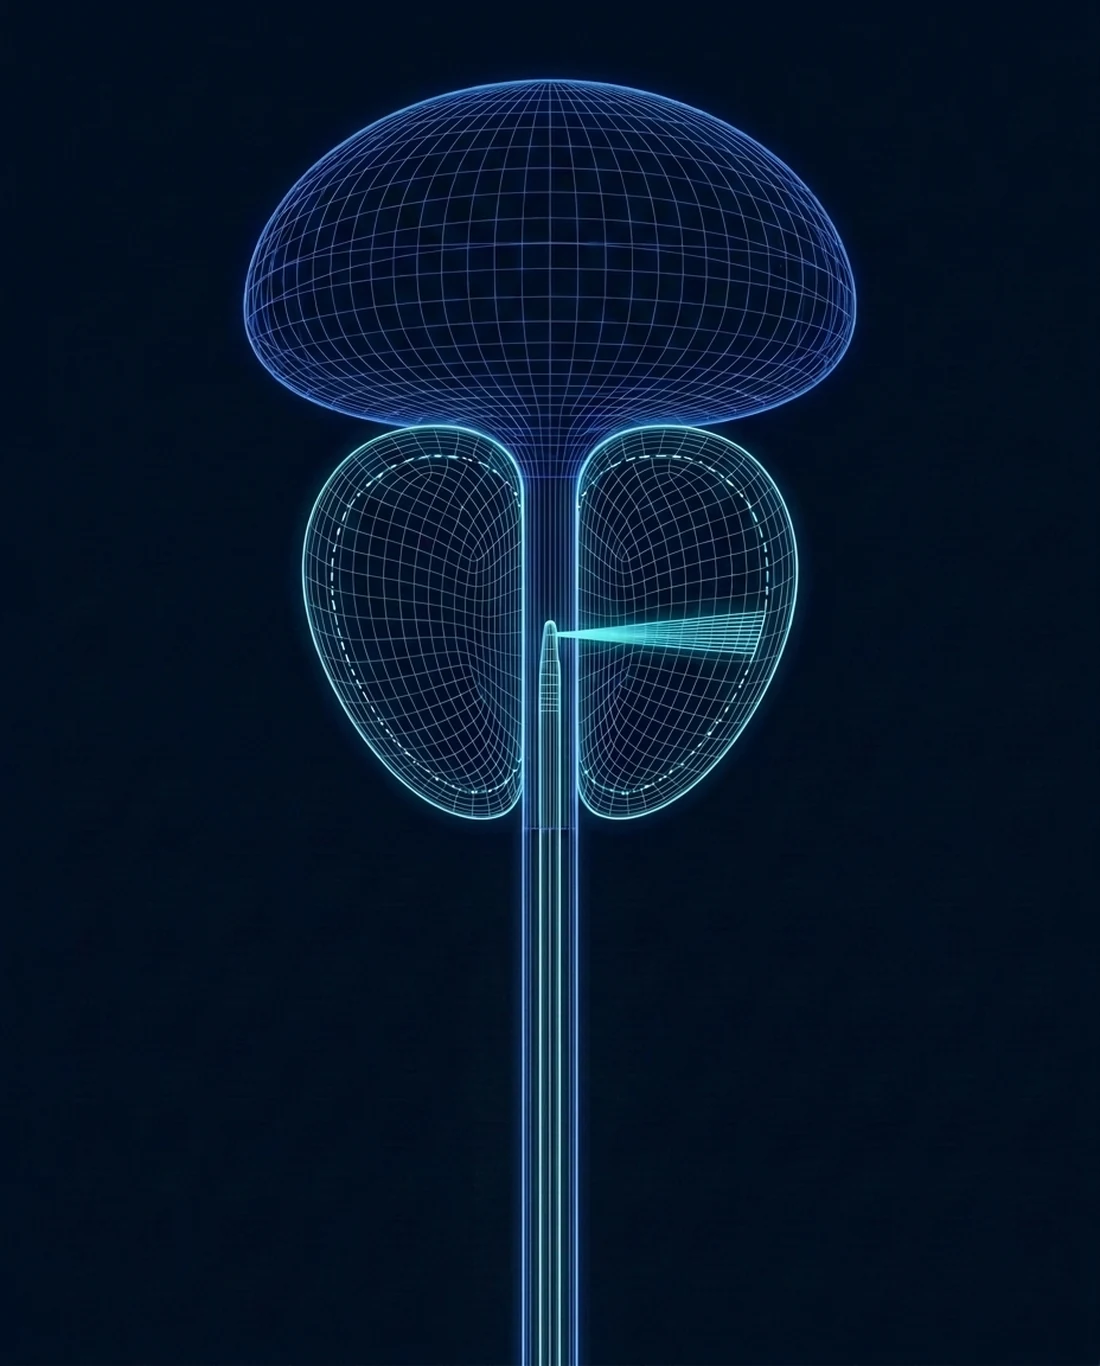
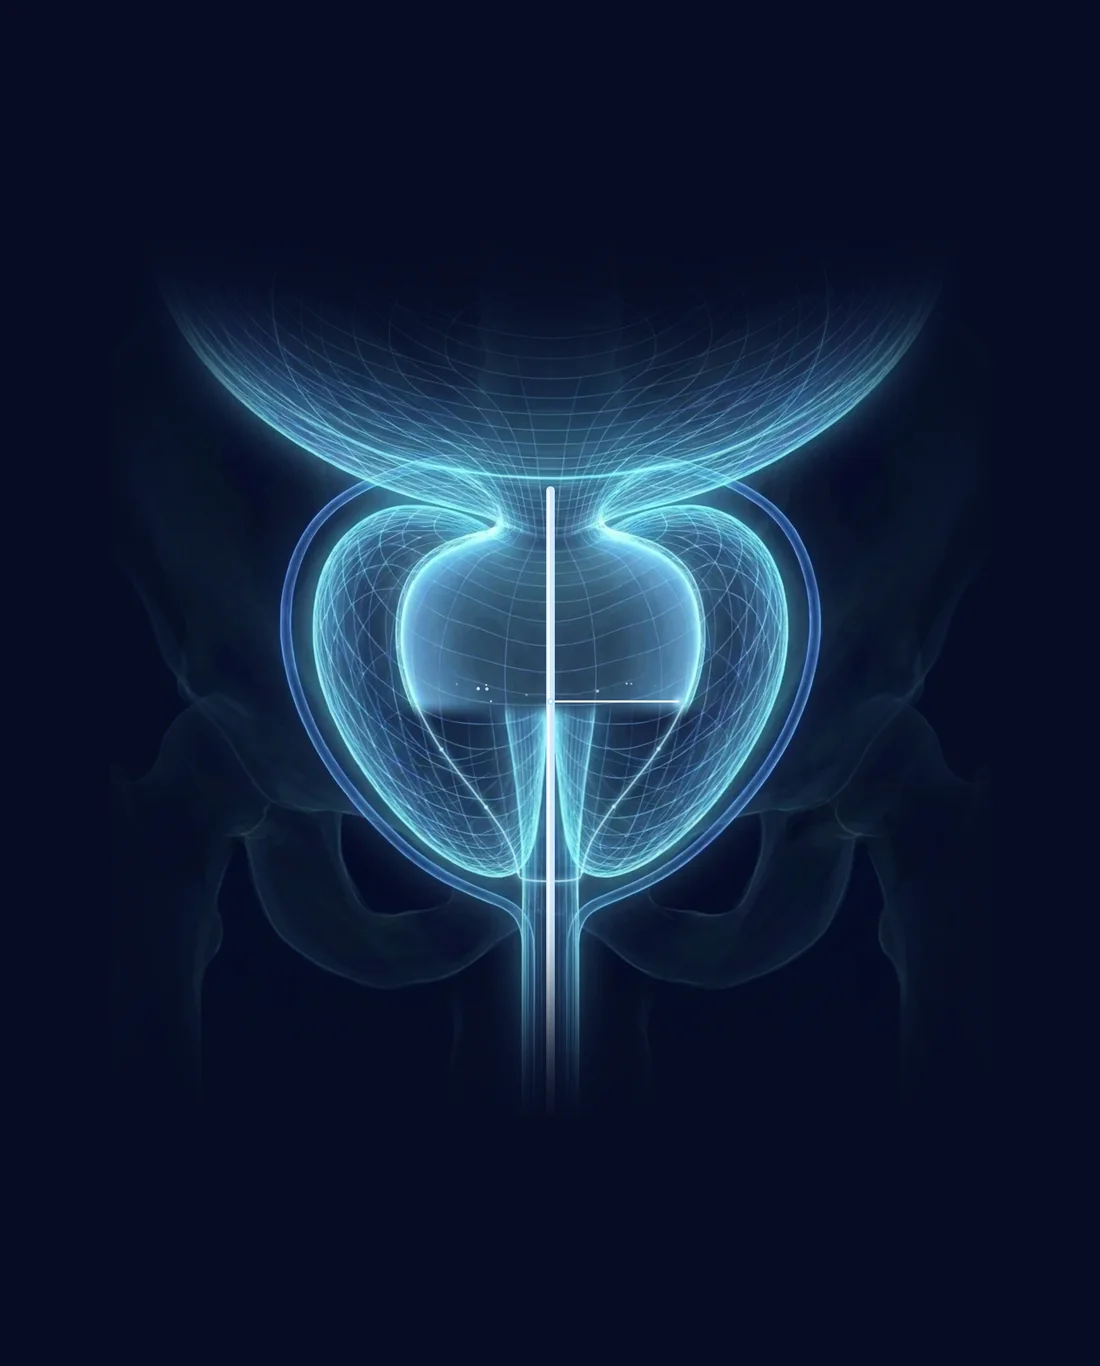
Aquablation, UroLift and Rezum: hero art from the front-view explainer renders

diff --git a/aquablation.html b/aquablation.html
@@ -67,7 +67,7 @@
             </div>
           </div>
           <div class="hero-art">
-            <img src="assets/img/ink-aqua4.webp" alt="A contour-line cross-section of the bladder and prostate showing the robotic handpiece in the urethra, a fan-shaped waterjet, and the dashed planned treatment boundary" fetchpriority="high" width="1100" height="1366">
+            <img src="assets/img/ink-aqua4.webp" alt="A wireframe rendering of the bladder and prostate seen from the front: the robotic handpiece in the urethra, the waterjet clearing the outlined tissue, and the open channel above it" fetchpriority="high" width="1100" height="1366">
           </div>
         </div>
       </div>

diff --git a/urolift.html b/urolift.html
@@ -67,7 +67,7 @@
             </div>
           </div>
           <div class="hero-art">
-            <img src="assets/img/ink-urolift.webp" alt="A contour-line rendering of the bladder and prostate with four UroLift implants holding the prostate lobes open" fetchpriority="high" width="1100" height="1366">
+            <img src="assets/img/ink-urolift.webp" alt="A wireframe rendering of the bladder and prostate seen from the front, with four UroLift implants holding the prostate lobes apart and the urethra open between them" fetchpriority="high" width="1100" height="1366">
           </div>
         </div>
       </div>

diff --git a/rezum.html b/rezum.html
@@ -67,7 +67,7 @@
             </div>
           </div>
           <div class="hero-art">
-            <img src="assets/img/ink-rezum.webp" alt="A contour-line rendering of the bladder and prostate with a needle releasing water vapor into the prostate tissue" fetchpriority="high" width="1100" height="1366">
+            <img src="assets/img/ink-rezum.webp" alt="A wireframe rendering of the bladder and prostate seen from the front, with a needle releasing water vapor into one lobe of the prostate" fetchpriority="high" width="1100" height="1366">
           </div>
         </div>
       </div>
